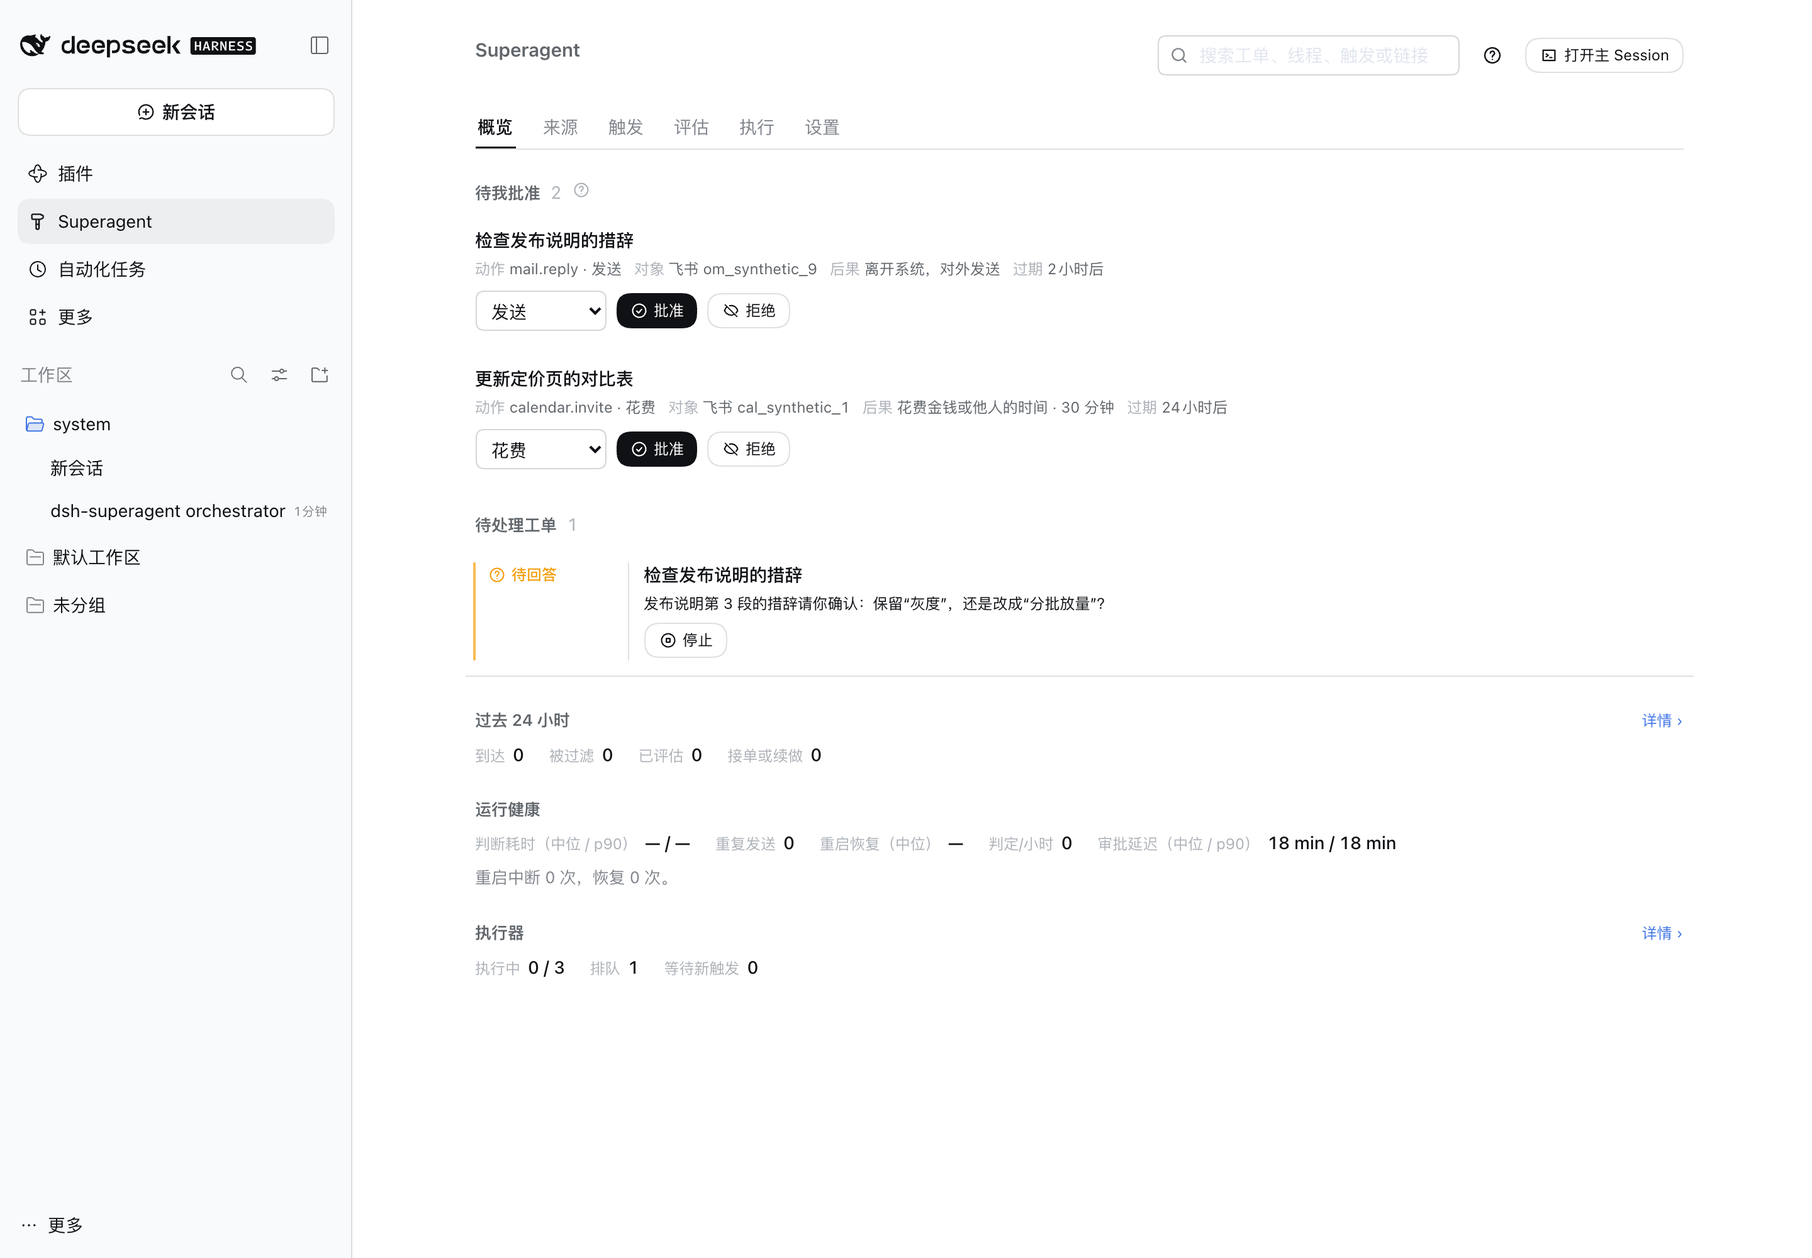
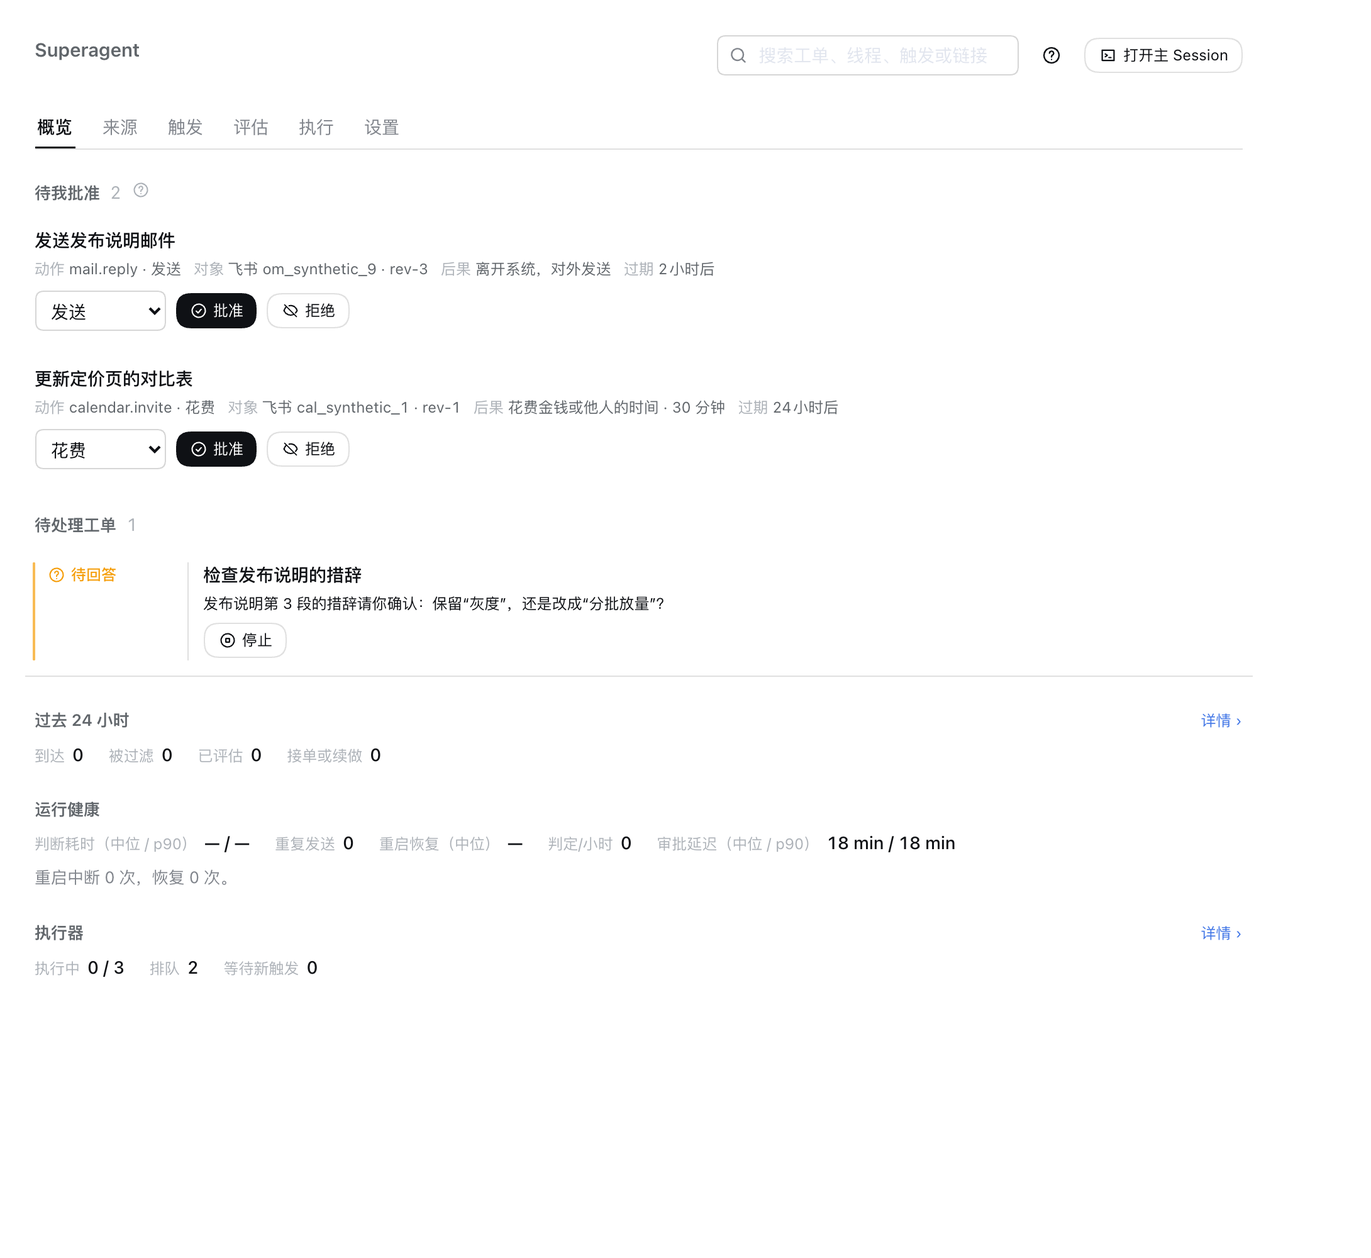
fix(panel): tighten approval consent and expiry semantics
Address the independent review of the approval queue:

- Confirm Deny before recording a final refusal.
- Show the Action's revision, and recompute the consequence from the
  level the person selects.
- Make approvals.pending(now) leave out requests past expiry, and count
  a due request as an expiry in the latency figure even before anything
  records the expired state.
- Keep a repeated approval idempotent even when it names a level the
  original request could not grant.
- Give each row's level, approve and deny controls a Ticket-specific
  accessible name.
- Reference the pair of captures from the panel guide and refresh them
  against the new row; add tests for ordering, revision, cost, the
  single-level case and confirmed denial.

diff --git a/tests/panel-approval.spec.tsx b/tests/panel-approval.spec.tsx
@@ -2,7 +2,7 @@
 // The approvals queue on the overview.
 import { expect, it } from 'vitest'
 import { en, zh } from '@superagent/dsh/client/locales.ts'
-import { usePanel, mount, all, find, click, type, field } from './fixtures/panel.tsx'
+import { usePanel, mount, all, find, click, type } from './fixtures/panel.tsx'
 import { approvalSummary, server } from './fixtures/panel-server.ts'
 
 usePanel()
@@ -12,7 +12,7 @@ it('keeps the overview quiet while no Approval waits for a person', async () => 
   expect(all('.dt-section-title').map(title => title.textContent)[0]).toBe(`${zh.pendingTickets}2`)
 })
 
-it('leads with each pending Approval: the Action, its object, its consequence and one-click approve or deny', async () => {
+it('leads with each pending Approval: the Action, its object, its revision, its consequence and one-click approve', async () => {
   server.approvals = [approvalSummary()]
   await mount()
   expect(all('.dt-section-title').map(title => title.textContent)[0]).toBe(`${zh.approvalsTitle}1`)
@@ -22,24 +22,48 @@ it('leads with each pending Approval: the Action, its object, its consequence an
   expect(row.textContent).toContain(zh['level.send'])
   expect(row.textContent).toContain(zh['levelEffect.send'])
   expect(row.textContent).toContain('om_reply_1')
+  expect(row.textContent).toContain('rev-1')
   expect(row.textContent).toContain(zh.approvalExpires)
+  expect(find(zh.approve).getAttribute('aria-label')).toContain('修复回归')
   await click(zh.approve)
   expect(server.requests).toContainEqual({ path: 'approvals/ap1/approve', method: 'POST', body: {} })
   expect(document.querySelector('.dt-approval')).toBeNull()
 })
 
-it('grants a lower level picked before approving', async () => {
+it('grants a lower level picked before approving, and shows that smaller consequence', async () => {
   server.approvals = [approvalSummary()]
   await mount()
-  await type(field<HTMLSelectElement>(zh.approvalLevel), 'draft')
+  await type(document.querySelector<HTMLSelectElement>('.dt-approval-level')!, 'draft')
+  expect(document.querySelector('.dt-approval')!.textContent).toContain(zh['levelEffect.draft'])
+  expect(document.querySelector('.dt-approval')!.textContent).not.toContain(zh['levelEffect.send'])
   await click(zh.approve)
   expect(server.requests).toContainEqual({ path: 'approvals/ap1/approve', method: 'POST', body: { level: 'draft' } })
 })
 
-it('denies an Approval without granting anything', async () => {
+it('shows the money cost of a spend request', async () => {
+  const spend = approvalSummary()
+  server.approvals = [approvalSummary({ action: { ...spend.action, kind: 'calendar.invite', revision: 'rev-2', level: 'spend',
+    cost: { kind: 'money', amount: 12, currency: 'USD' } }, levels: ['read', 'draft', 'commit', 'send', 'spend'] })]
+  await mount()
+  expect(document.querySelector('.dt-approval')!.textContent).toContain('USD 12')
+})
+
+it('hides the level selector when only the requested level is possible', async () => {
+  const spend = approvalSummary()
+  server.approvals = [approvalSummary({ action: { ...spend.action, level: 'read' }, levels: ['read'] })]
+  await mount()
+  expect(document.querySelector('.dt-approval-level')).toBeNull()
+  await click(zh.approve)
+  expect(server.requests).toContainEqual({ path: 'approvals/ap1/approve', method: 'POST', body: {} })
+})
+
+it('denies an Approval only after the confirmation, without granting anything', async () => {
   server.approvals = [approvalSummary()]
   await mount()
   await click(zh.deny)
+  expect(server.requests).not.toContainEqual({ path: 'approvals/ap1/deny', method: 'POST' })
+  expect(document.body.textContent).toContain(zh.denyConfirmTitle)
+  await click(zh.confirm)
   expect(server.requests).toContainEqual({ path: 'approvals/ap1/deny', method: 'POST' })
   expect(document.querySelector('.dt-approval')).toBeNull()
 })

diff --git a/tests/approval.spec.ts b/tests/approval.spec.ts
@@ -13,6 +13,7 @@ const approver = { source: 'feishu', id: 'ou_alice' }
 const action = (revision = 'rev-1'): Action => createAction({ source: 'feishu', objectId: 'om_1', kind: 'mail.reply', revision,
   actor: requester, level: 'send' })
 const times = { requestedAt: '2026-11-07T10:00:00.000Z', expiresAt: '2026-11-07T11:00:00.000Z' }
+const pendingAt = Date.parse('2026-11-07T10:30:00.000Z')
 const request = (overrides: Partial<Parameters<typeof createApproval>[0]> = {}) =>
   ({ ticketId: 't1', action: action(), ...times, requestedBy: requester, ...overrides })
 const requested = (): Approval => createApproval(request())
@@ -108,6 +109,8 @@ describe('the approval state machine', () => {
     // A repeated approval keeps the first decision, including its granted level.
     const approved = approve(requested(), { ...decided(), level: 'draft' })
     expect(approve(approved, { ...decided('2026-11-07T10:20:00.000Z'), level: 'commit' })).toEqual(approved)
+    // A repeated approval is unchanged even when it names a level the original request could not grant.
+    expect(approve(approved, { ...decided('2026-11-07T10:20:00.000Z'), level: 'spend' })).toEqual(approved)
   })
 
   it('refuses a decision before the request, an expiry that is not later, and an action that no longer matches its key', () => {
@@ -138,18 +141,21 @@ describe('the approval repository', () => {
         repo.approvals.save(other)
         expect(repo.approvals.get(one.id)).toEqual(one)
         expect(repo.approvals.byTicket('t1').map(approval => approval.id)).toEqual([one.id, two.id])
-        expect(repo.approvals.pending().map(approval => approval.id)).toEqual([one.id, two.id, other.id])
+        expect(repo.approvals.pending(pendingAt).map(approval => approval.id)).toEqual([one.id, two.id, other.id])
         const approved = approve(one, { ...decided(), level: 'draft' })
         repo.approvals.save(approved)
         expect(repo.approvals.get(one.id)).toEqual(approved)
         expect(repo.approvals.get(one.id)).toMatchObject({ grantedLevel: 'draft' })
-        expect(repo.approvals.pending().map(approval => approval.id)).toEqual([two.id, other.id])
+        expect(repo.approvals.pending(pendingAt).map(approval => approval.id)).toEqual([two.id, other.id])
         // A repeated approval of the stored record keeps the first decision; it does not add another row.
         repo.approvals.save(approve(repo.approvals.get(one.id)!, { by: { source: 'feishu', id: 'ou_bob' }, at: '2026-11-07T12:00:00.000Z' }))
         expect(repo.approvals.get(one.id)).toEqual(approved)
         expect(repo.approvals.byTicket('t1').map(approval => approval.id)).toEqual([one.id, two.id])
         repo.approvals.save(expire(two, times.expiresAt))
-        expect(repo.approvals.pending().map(approval => approval.id)).toEqual([other.id])
+        expect(repo.approvals.pending(pendingAt).map(approval => approval.id)).toEqual([other.id])
+        const due = createApproval(request({ action: action('rev-due'), expiresAt: '2026-11-07T10:20:00.000Z' }))
+        repo.approvals.save(due)
+        expect(repo.approvals.pending(pendingAt).map(approval => approval.id)).toEqual([other.id])
         expect(repo.approvals.get(two.id)).toMatchObject({ state: 'expired' })
       }
     } finally { store.close() }
@@ -193,7 +199,7 @@ describe('the approval repository', () => {
     const approval = createApproval(request())
     store.approvals.save(approval)
     expect(store.approvals.byTicket('t1')).toEqual([approval])
-    expect(store.approvals.pending()).toEqual([approval])
+    expect(store.approvals.pending(pendingAt)).toEqual([approval])
     store.close()
   })
 })

diff --git a/packages/dsh/src/client/overview.tsx b/packages/dsh/src/client/overview.tsx
@@ -62,8 +62,10 @@ function ApprovalLine({ approval, onChanged }: { approval: ApprovalRow; onChange
   const { t, call, navigate } = usePanel()
   const [level, setLevel] = useState(approval.action.level)
   const post = useAction((request: () => Promise<unknown>) => request(), { reload: onChanged })
-  const spend = approval.action.cost
-  const consequence = `${valueLabel(t, 'levelEffect', approval.action.level)}${spend === undefined ? ''
+  // The effect follows the level the person picked: a lower grant does less than the requested Action, and a spend
+  // costs nothing unless it is granted at the level that carries the cost.
+  const spend = level === approval.action.level ? approval.action.cost : undefined
+  const consequence = `${valueLabel(t, 'levelEffect', level)}${spend === undefined ? ''
     : ` · ${spend.kind === 'money' ? `${spend.currency} ${spend.amount}` : t('approvalCostTime', { minutes: spend.minutes })}`}`
   return <li className="dt-row dt-link dt-approval">
     <div className="dt-row-main">
@@ -71,21 +73,23 @@ function ApprovalLine({ approval, onChanged }: { approval: ApprovalRow; onChange
         id: approval.ticket.id })}>{approval.ticket.title}</button></div>
       <div className="dt-row-meta">
         <LabelValue label={t('approvalAction')} value={`${approval.action.kind} · ${valueLabel(t, 'level', approval.action.level)}`} />
-        <LabelValue label={t('approvalObject')} value={`${valueLabel(t, 'source', approval.action.source)} ${approval.action.objectId}`} />
+        <LabelValue label={t('approvalObject')} value={`${valueLabel(t, 'source', approval.action.source)} ${approval.action.objectId} · ${approval.action.revision}`} />
         <LabelValue label={t('approvalConsequence')} value={consequence} />
         <LabelValue label={t('approvalExpires')} value={<When at={approval.expiresAt} />} />
       </div>
       <div className="dt-row-meta dt-row-buttons">
-        {approval.levels.length > 1 && <select className="dt-select dt-approval-level" aria-label={t('approvalLevel')}
-          title={t('approvalLevel')} value={level}
+        {approval.levels.length > 1 && <select className="dt-select dt-approval-level"
+          aria-label={`${t('approvalLevel')} · ${approval.ticket.title}`} title={t('approvalLevel')} value={level}
           onChange={event => setLevel(event.target.value as ApprovalRow['action']['level'])}>
           {approval.levels.map(item => <option key={item} value={item}>{valueLabel(t, 'level', item)}</option>)}
         </select>}
         <Button variant="primary" size="sm" icon={<Icon name="decision" size={14} />} disabled={post.busy}
+          aria-label={`${t('approve')} · ${approval.ticket.title}`}
           onClick={() => { void post.run(() => call('POST approvals/:id/approve', { id: approval.id,
             body: level === approval.action.level ? {} : { level } })) }}>{t('approve')}</Button>
-        <Button variant="outline" size="sm" icon={<Icon name="dismiss" size={14} />} disabled={post.busy}
-          onClick={() => { void post.run(() => call('POST approvals/:id/deny', { id: approval.id })) }}>{t('deny')}</Button>
+        <ConfirmButton variant="outline" icon="dismiss" label={t('deny')} title={t('denyConfirmTitle')}
+          message={t('denyConfirm')} ariaLabel={`${t('deny')} · ${approval.ticket.title}`}
+          onConfirm={async () => { await call('POST approvals/:id/deny', { id: approval.id }); await onChanged() }} />
       </div>
     </div>
   </li>

diff --git a/packages/dsh/src/app/metrics.ts b/packages/dsh/src/app/metrics.ts
@@ -73,11 +73,16 @@ export function metrics(store: Store, now = Date.now()): MetricsView {
     return value === null ? [] : [value]
   })
   const decisions = Number(db.prepare(`SELECT COUNT(*) AS n FROM decision WHERE json_extract(value, '$.at') >= ?`).get(since)?.n ?? 0)
-  // A person's approval, denial or an expiry is a decision; a withdrawal by the requester is not.
-  const waited = db.prepare(`SELECT json_extract(value, '$.requestedAt') AS requested,
-    json_extract(value, '$.decidedAt') AS decided FROM approval
-    WHERE json_extract(value, '$.decidedAt') >= ?
-      AND json_extract(value, '$.state') IN ('approved', 'denied', 'expired')`).all(since)
+  // A person's approval, denial or an expiry is a decision; a withdrawal by the requester is not. A request past its
+  // expiry counts at that expiry even before anything records the `expired` state, so the wait is not lost.
+  const waited = db.prepare(`SELECT requested, decided FROM (
+    SELECT json_extract(value, '$.requestedAt') AS requested,
+      CASE WHEN json_extract(value, '$.state') = 'requested' THEN json_extract(value, '$.expiresAt')
+        ELSE json_extract(value, '$.decidedAt') END AS decided
+    FROM approval
+    WHERE json_extract(value, '$.state') IN ('approved', 'denied', 'expired')
+      OR (json_extract(value, '$.state') = 'requested' AND json_extract(value, '$.expiresAt') <= ?)
+  ) WHERE decided >= ?`).all(new Date(now).toISOString(), since)
   const approvalDelays = waited.flatMap(row => {
     const value = seconds(row.requested === null ? null : String(row.requested), row.decided === null ? null : String(row.decided))
     return value === null ? [] : [value]

diff --git a/tests/views.spec.ts b/tests/views.spec.ts
@@ -222,6 +222,21 @@ it('queues a pending Approval with its Ticket and the levels a person may grant,
     action: { kind: 'mail.reply', source: 'feishu', objectId: 'om_1', level: 'send' }, levels: ['read', 'draft', 'commit', 'send'] })
 })
 
+it('orders the approval queue by request time and falls back to the Ticket id when its Ticket is gone', () => {
+  const now = Date.now()
+  const action = (objectId: string) => createAction({ source: 'feishu', objectId, kind: 'mail.reply', revision: 'rev-1',
+    actor: { source: 'feishu', id: 'ou_bot' }, level: 'send' })
+  const later = createApproval({ ticketId: 't-missing', action: action('om_later'),
+    requestedAt: new Date(now - 1_000).toISOString(), expiresAt: new Date(now + 60_000).toISOString() })
+  const earlier = createApproval({ ticketId: 't-missing-too', action: action('om_earlier'),
+    requestedAt: new Date(now - 2_000).toISOString(), expiresAt: new Date(now + 60_000).toISOString() })
+  store.approvals.save(later)
+  store.approvals.save(earlier)
+  const queue = approvalQueue(store, now)
+  expect(queue.map(row => row.id)).toEqual([earlier.id, later.id])
+  expect(queue[0]?.ticket).toEqual({ id: 't-missing-too', title: 't-missing-too' })
+})
+
 it('lists an Eval past its deadline, and as dsh-superagent\'s own errors only parts no Source or Policy sync reports', () => {
   const host = views()
   const evaluating = { id: 'e1', threadKey: 'github:1', triggerIds: ['t1'], strength: 'explicit' as const, actor: { source: 'github',

diff --git a/packages/dsh/src/client/widgets.tsx b/packages/dsh/src/client/widgets.tsx
@@ -72,14 +72,17 @@ export function ClampText({ text }: { text: string }) {
   </>
 }
 
-export function ConfirmButton({ label, title, message, onConfirm, variant = 'ghost', icon }: {
+export function ConfirmButton({ label, title, message, onConfirm, variant = 'ghost', icon, ariaLabel }: {
   label: string; title: string; message: string; onConfirm: () => Promise<unknown>; variant?: 'ghost' | 'outline'; icon?: IconName
+  /** Names the one record this control confirms, when several rows show the same label. */
+  ariaLabel?: string
 }) {
   const { t } = usePanel()
   const [open, setOpen] = useState(false)
   const confirm = useAction(onConfirm)
   return <>
-    <Button variant={variant} size="sm" icon={icon && <Icon name={icon} size={14} />} onClick={() => setOpen(true)}>{label}</Button>
+    <Button variant={variant} size="sm" icon={icon && <Icon name={icon} size={14} />} aria-label={ariaLabel}
+      onClick={() => setOpen(true)}>{label}</Button>
     <Modal open={open} onClose={() => setOpen(false)} title={title} closeLabel={t('close')} description={message}
       footer={<>
         <Button variant="ghost" onClick={() => setOpen(false)}>{t('cancel')}</Button>

diff --git a/packages/dsh/src/app/views/approvals.ts b/packages/dsh/src/app/views/approvals.ts
@@ -25,18 +25,17 @@ const actionOf = (approval: Approval): ApprovalRow['action'] => {
  * a decision yet, and it is not actionable. The list is bounded by the number of pending approvals, which stays small.
  */
 export function approvalQueue(store: Pick<Store, 'approvals' | 'tickets'>, now = Date.now()): ApprovalRow[] {
-  return store.approvals.pending().flatMap(approval => {
-    if (Date.parse(approval.expiresAt) <= now) return []
+  return store.approvals.pending(now).map(approval => {
     const ticket = store.tickets.get(approval.ticketId)
-    return [{
+    return {
       id: approval.id,
       ticket: { id: approval.ticketId, title: ticket?.title ?? approval.ticketId },
       action: actionOf(approval),
       requestedAt: approval.requestedAt,
       expiresAt: approval.expiresAt,
       levels: ACTION_LEVELS.filter(level => withinActionLevel(level, approval.action.level)),
-    }]
-  })
+    }
+  }).sort((left, right) => left.requestedAt.localeCompare(right.requestedAt) || left.id.localeCompare(right.id))
 }
 
 export type ApprovalQueueView = ReturnType<typeof approvalQueue>

diff --git a/packages/dsh/src/app/store.ts b/packages/dsh/src/app/store.ts
@@ -268,8 +268,10 @@ export class Store implements Repositories {
     save: (approval: Approval): void => { this.db.prepare('INSERT INTO approval (id, value) VALUES (?,?) ON CONFLICT(id) DO UPDATE SET value=excluded.value').run(approval.id, JSON.stringify(approval)) },
     /** A Ticket's Approvals, oldest first. */
     byTicket: (ticketId: string): Approval[] => this.values('SELECT value FROM approval WHERE ticket = ? ORDER BY rowid', ticketId),
-    /** Approvals still waiting for a decision, oldest first. */
-    pending: (): Approval[] => this.values('SELECT value FROM approval WHERE pending IS NOT NULL ORDER BY rowid'),
+    /** Approvals still waiting for a decision at `now` and not past their expiry, oldest first. */
+    pending: (now = Date.now()): Approval[] => this.values(
+      'SELECT value FROM approval WHERE pending IS NOT NULL AND json_extract(value, \'$.expiresAt\') > ? ORDER BY rowid',
+      new Date(now).toISOString()),
   }
   /** The stages of each Trigger's trace, written by the tracing sink and read by the panel and the tools. */
   readonly spans = {

diff --git a/packages/kernel/src/approval.ts b/packages/kernel/src/approval.ts
@@ -146,9 +146,10 @@ function grantedLevel(approval: Approval, level: ActionLevel | undefined): Actio
  * approved Approval returns it unchanged; any other final state refuses the change.
  */
 export function approve(approval: Approval, decision: ApprovalDecision): Approval {
+  if (approval.state === 'approved') return approval
   const level = grantedLevel(approval, decision.level)
   const next = decide(approval, 'approved', decision)
-  return next === approval || level === undefined ? next : { ...next, grantedLevel: level }
+  return level === undefined ? next : { ...next, grantedLevel: level }
 }
 
 /** Deny the Action. Denying an already denied Approval returns it unchanged; any other final state refuses the change. */

diff --git a/tests/metrics.spec.ts b/tests/metrics.spec.ts
@@ -116,6 +116,14 @@ it('reports judgements per hour over the day', () => {
   store.close()
 })
 
+it('counts a request past its expiry even before the expired state is recorded', () => {
+  const store = new Store(path())
+  store.approvals.save(approval('due', -3600, -3540))
+  store.approvals.save(approval('waiting', -100, 1000))
+  expect(metrics(store, NOW).approval).toEqual({ samples: 1, medianSeconds: 60, p90Seconds: 60 })
+  store.close()
+})
+
 it('measures the wait from an Approval to its decision, leaving withdrawals and older decisions out', () => {
   const store = new Store(path())
   const decided = (record: Approval, offset: number): Approval => approve(record, { by: panel, at: at(offset) })

diff --git a/packages/kernel/src/memory.ts b/packages/kernel/src/memory.ts
@@ -53,6 +53,7 @@ export class MemoryRepositories implements Repositories {
     get: (id: string) => clone(this.approvalRows.get(id)),
     save: (approval: Approval) => { this.approvalRows.set(approval.id, clone(approval)) },
     byTicket: (ticketId: string) => [...this.approvalRows.values()].filter(approval => approval.ticketId === ticketId).map(clone),
-    pending: () => [...this.approvalRows.values()].filter(approval => approval.state === 'requested').map(clone),
+    pending: (now = Date.now()) => [...this.approvalRows.values()]
+      .filter(approval => approval.state === 'requested' && Date.parse(approval.expiresAt) > now).map(clone),
   }
 }

diff --git a/packages/dsh/src/client/locales.ts b/packages/dsh/src/client/locales.ts
@@ -144,6 +144,8 @@ const TEXT = {
   approvalsHint: ['每条只批准列出的动作与修订；批准为较低等级只会授予更小的动作。', 'Each decision covers only the Action and revision shown; approving a lower level grants less.'],
   approve: ['批准', 'Approve'],
   deny: ['拒绝', 'Deny'],
+  denyConfirmTitle: ['拒绝这个审批？', 'Deny this approval?'],
+  denyConfirm: ['拒绝后不能改判，这个动作不会再执行。', 'Denial is final; the Action will not run.'],
   approvalAction: ['动作', 'Action'],
   approvalObject: ['对象', 'Object'],
   approvalConsequence: ['后果', 'Effect'],
